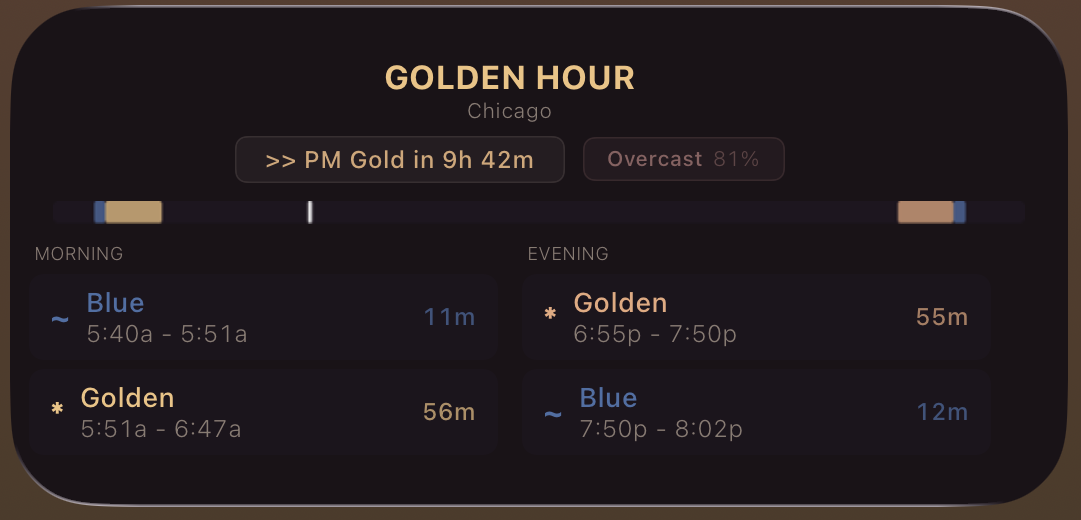
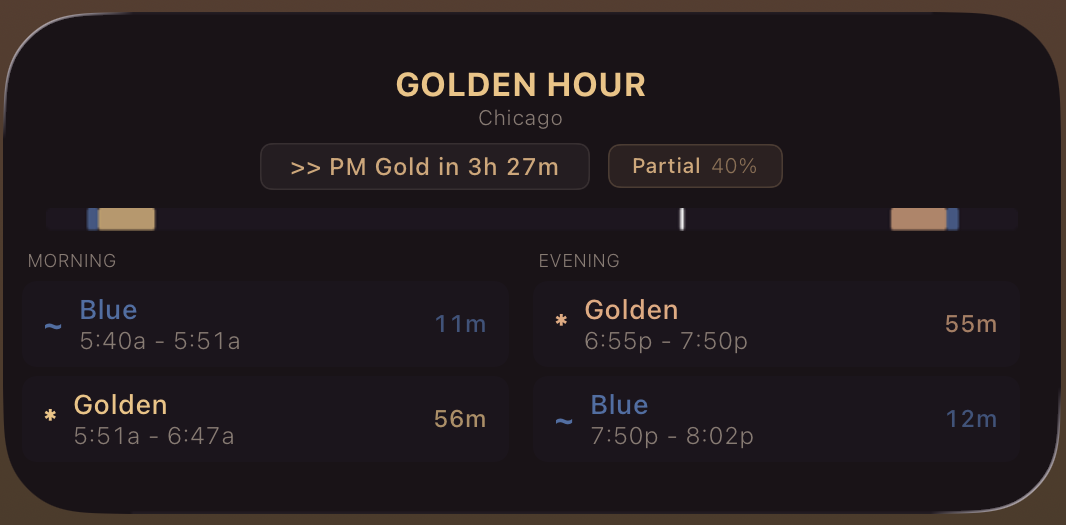
better med widget spacing and updated screenshot

diff --git a/Golden Hour.js b/Golden Hour.js
@@ -1,5 +1,5 @@
 // Variables used by Scriptable.
-// These must be at the very top of the file.
+// These must be at the very top of the file. Do not edit.
 // icon-color: orange; icon-glyph: sun;
 
 // ─────────────────────────────────────────────────────────
@@ -423,7 +423,7 @@ async function createWidget(loc, hourly) {
 
   const w = new ListWidget();
   w.backgroundColor = new Color("#1a1218");
-  w.setPadding(10, 16, 10, 16);
+  w.setPadding(10, 10, 10, 10);
 
   // ── Header ──
   const title = w.addText("GOLDEN HOUR");
@@ -531,6 +531,7 @@ async function createWidget(loc, hourly) {
   // ── AM / PM Columns ──
   const body = w.addStack();
   body.layoutHorizontally();
+  body.centerAlignContent()
 
   const amCol = body.addStack();
   amCol.layoutVertically();
